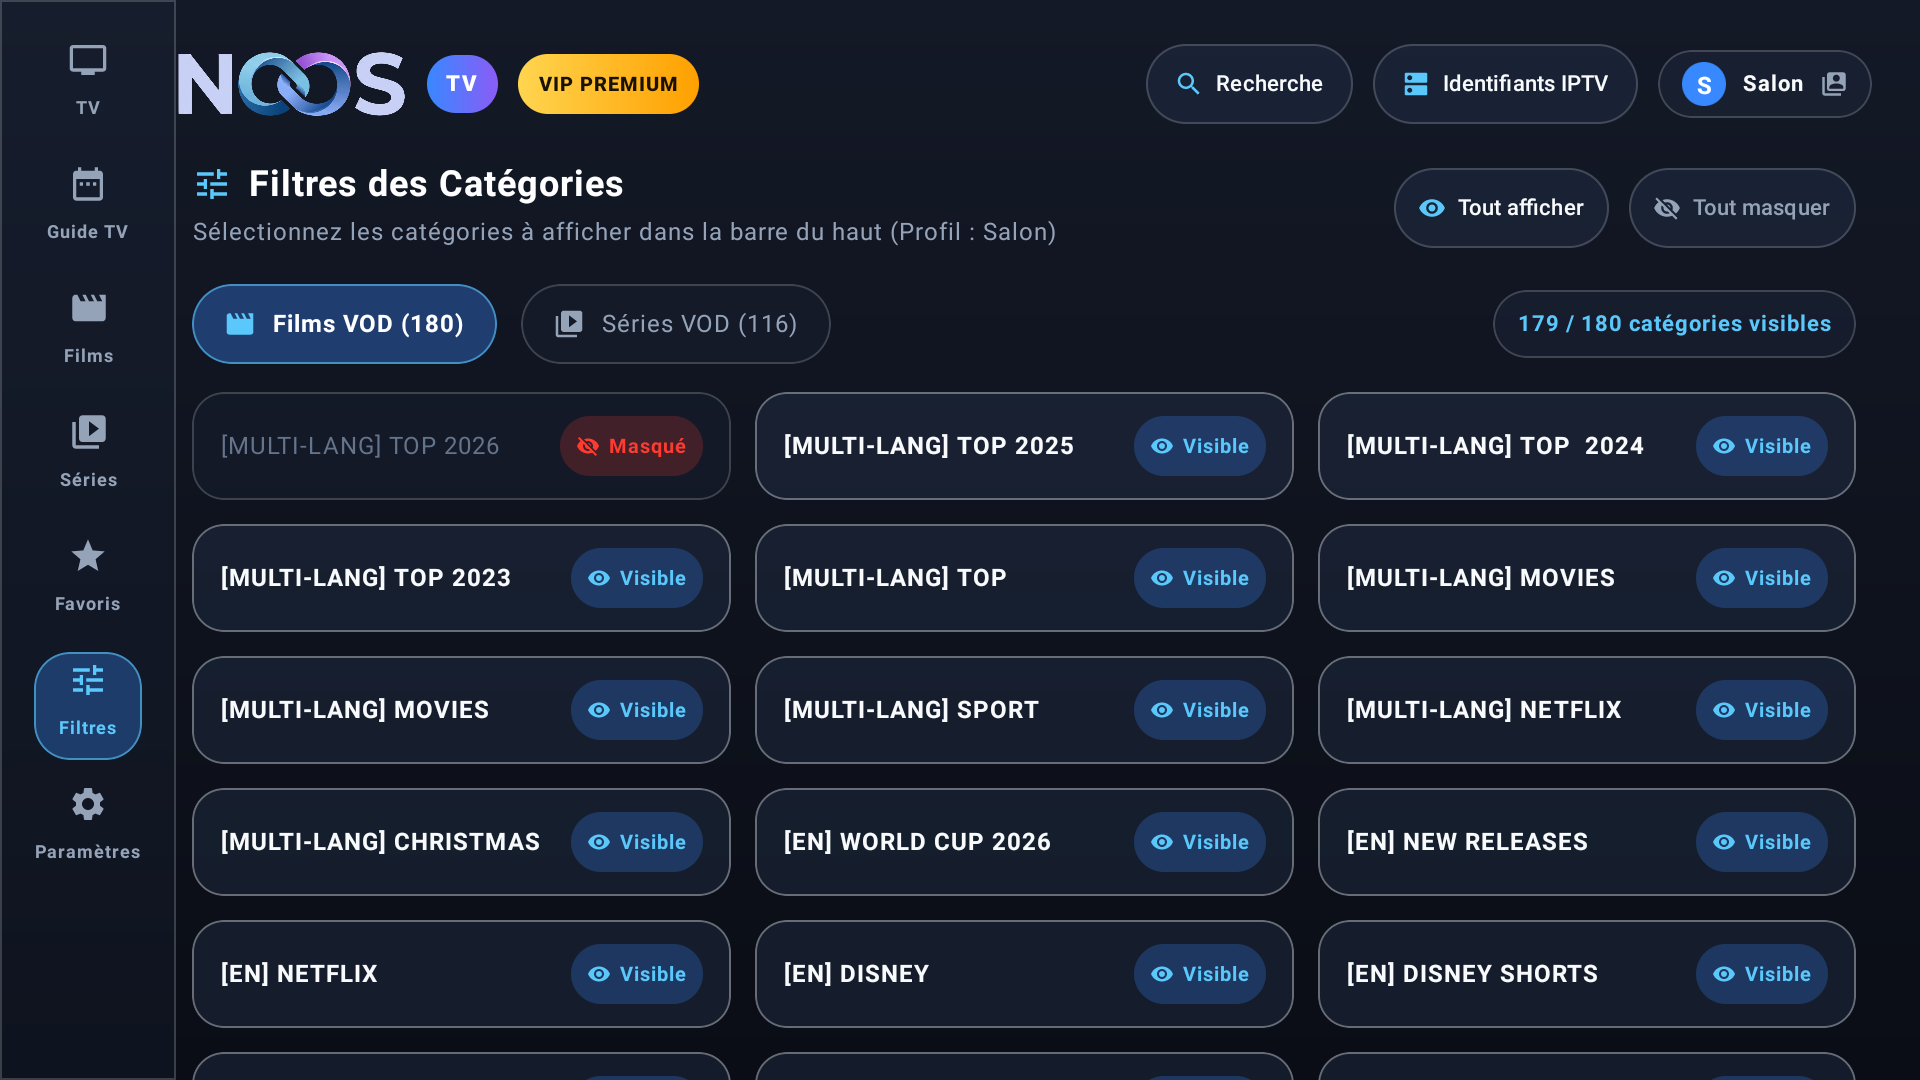
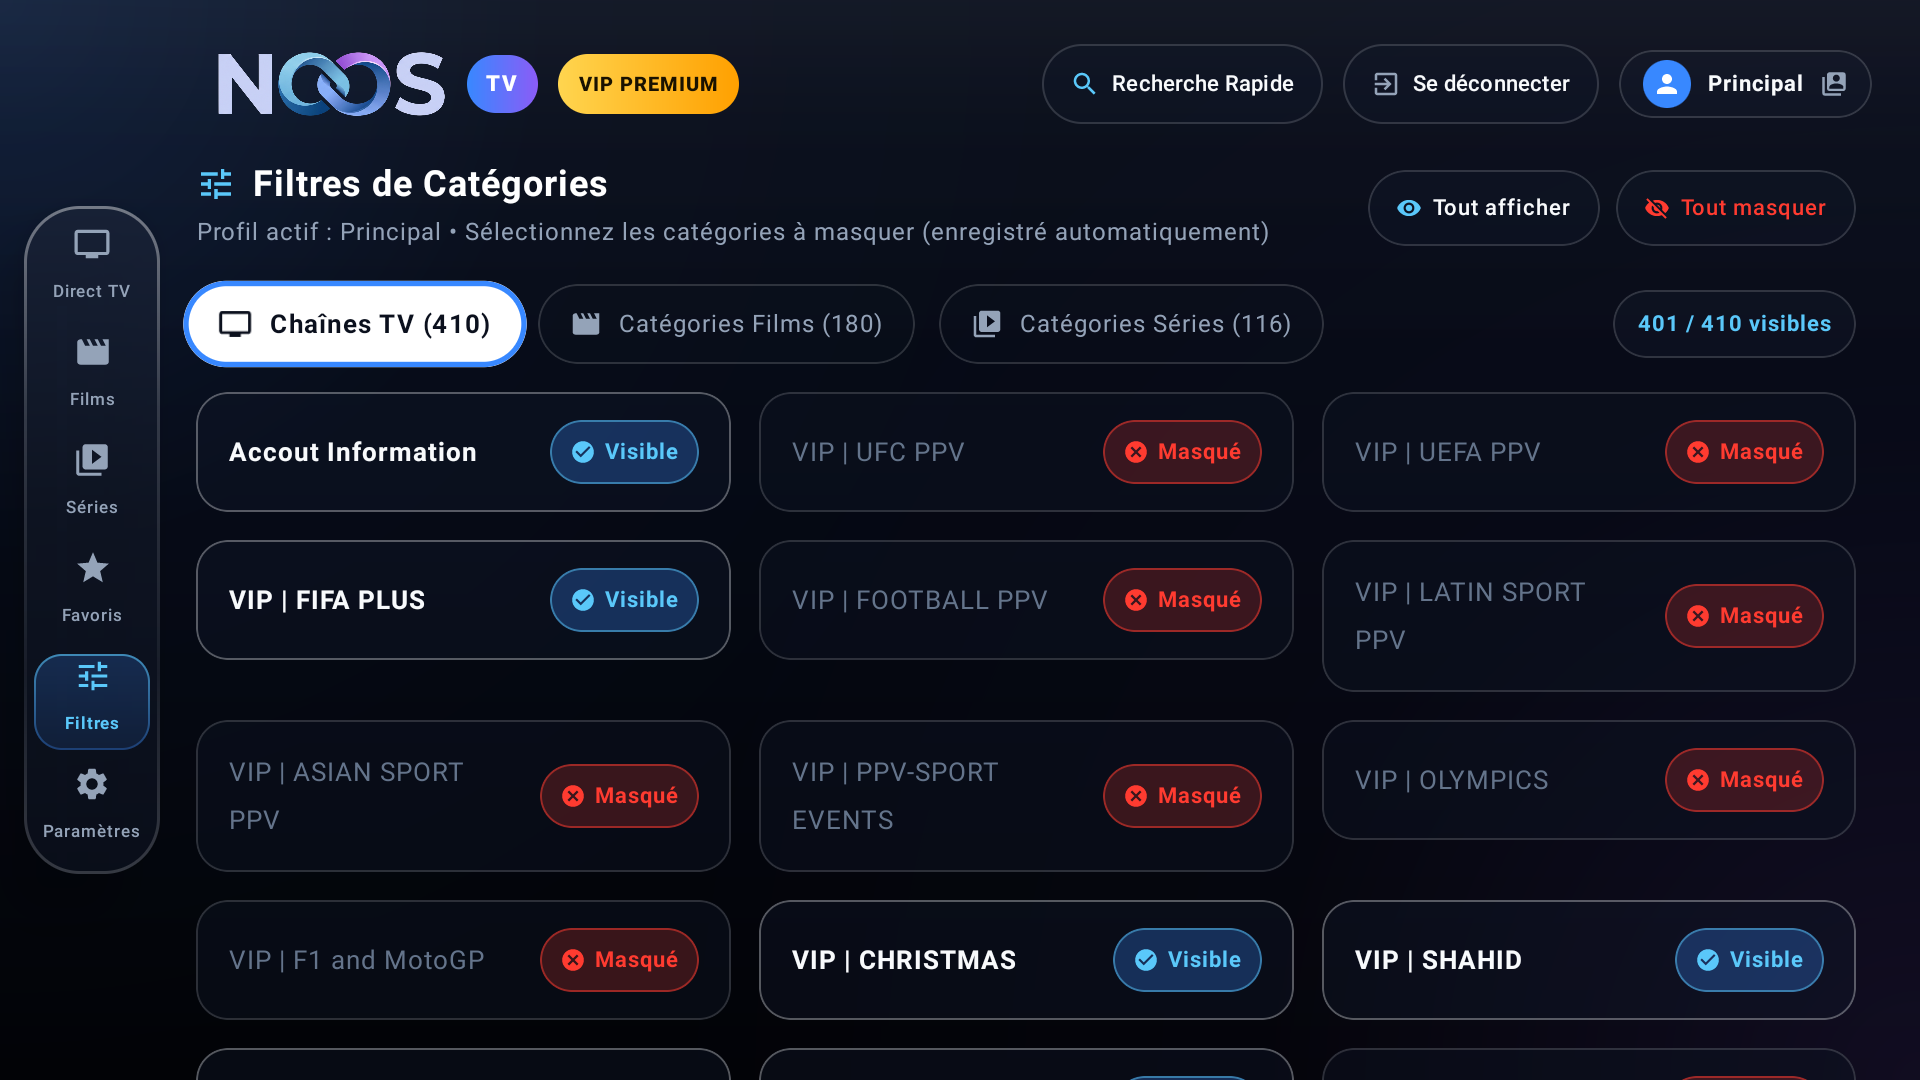
docs: update README with macOS glass design, loading screen, category filters, and new screenshots

diff --git a/README.md b/README.md
@@ -10,7 +10,7 @@
 [![Android](https://img.shields.io/badge/Android-8.0%2B%20(API%2026%2B)-3DDC84?logo=android&logoColor=white)](https://developer.android.com/)
 [![Compose TV](https://img.shields.io/badge/Jetpack%20Compose-Android%20TV%20%26%20M3-4285F4?logo=jetpackcompose&logoColor=white)](https://developer.android.com/jetpack/compose)
 [![Media3](https://img.shields.io/badge/Media3%20ExoPlayer-1.2.1-FF6F00?logo=youtube&logoColor=white)](https://developer.android.com/media/media3)
-[![GitHub Releases](https://img.shields.io/badge/Release-v1.2.3%20[Stable]-00E5FF)](https://github.com/Chomiam/noostv/releases)
+[![GitHub Releases](https://img.shields.io/badge/Release-v1.2.8%20[Stable]-00E5FF)](https://github.com/Chomiam/noostv/releases)
 
 ---
 
@@ -21,12 +21,15 @@
 **NoosTV** est une application Android moderne et universelle conçue pour offrir une expérience de streaming fluide et immersive sur **téléviseurs connectés, box Android TV (Nvidia Shield, Xiaomi Mi Box, Chromecast avec Google TV)** ainsi que sur **smartphones et tablettes Android (Google Pixel, Samsung Galaxy, etc.)**.
 
 Développée en **Kotlin** avec **Jetpack Compose for TV** et **Material 3**, NoosTV intègre les standards visuels et ergonomiques les plus soignés :
-- **Design Glassy Frosted Blur** inspiré des interfaces Apple TV et Google TV (translucidité moderne, reflets lumineux et contraste dynamique),
+- **Arrière-plan macOS Dark Glassmorphic** : dégradés de couleurs sombres et flou de profondeur (*frost blur*) inspirés de la transparence feutrée des fenêtres Apple sur Mac,
+- **Écran de Chargement Intégral Stylisé** : affichage immersif plein écran avec barre de progression en dégradé cyan/violet et statut d'indexation temps réel,
+- **Dock Latéral Flottant à 6 Onglets Épurés** : navigation TV sans accroc (*Direct TV, Films, Séries, Favoris, Filtres, Paramètres*), avec isolation stricte du focus D-pad sans déplacement intempestif sur la grille,
+- **Filtres de Catégories & Focus Haute Visibilité (Style Apple)** : sélecteur par type (*Chaînes, Films, Séries*), mise en avant éclatante en pilule blanche sous le curseur, et boutons d'action rapide *Tout afficher* / *Tout masquer*,
 - **Sons de Navigation d'Interface (Style Apple TV)** : retours acoustiques feutrés (ticks de navigation, pops de validation, descente au retour) joués à latence zéro avec limitation de cadence (*rate limiting* anti-saturation),
-- **Lecteur Vidéo Optimisé pour Télécommande D-Pad** : options et réglages avancés (Infos, Vitesse, Qualité, Audio/Subs, Format) regroupés dans la barre inférieure pour un accès en un clic depuis Play/Pause,
+- **Split-View Direct TV 1/4 d'Écran avec Guide TV Intégré** : liste des chaînes à gauche avec zapping instantané, prévisualisation vidéo allégée et Guide TV chronologique complet en dessous à droite,
+- **Lecteur Vidéo Ergonomique pour Télécommande D-Pad** : réglages avancés (Infos débit/codec, Vitesse, Qualité, Audio/Subs, Format) regroupés dans la barre inférieure pour un accès en un clic depuis Play/Pause,
 - **Détection Vidéo Intelligente (CinemaScope & Multi-Flux)** : reconnaissance fidèle des flux 1080p et 4K même pour les formats cinéma larges (1920×800) sans fausse classification en 720p,
 - **Écran de Connexion Rapide Multi-Comptes** : vue partagée avec historique des identifiants chiffrés localement via **AES-256-GCM Keystore matériel**,
-- **Split-View Direct TV 1/4 d'Écran** : liste de chaînes à gauche avec zapping instantané, prévisualisation vidéo allégée et guide TV chronologique en dessous à droite,
 - **Gestion Multi-Profils** sur un compte unique (avatars colorés style Netflix/Prime, favoris et filtres isolés par utilisateur),
 - **Support International 7 Langues** : Français, Anglais, Espagnol, Allemand, Italien, Arabe et Portugais,
 - **Système de Mise à Jour OTA Transparent** directement depuis GitHub Releases avec sélecteur de canal Stable et Testing.
@@ -35,10 +38,23 @@ Développée en **Kotlin** avec **Jetpack Compose for TV** et **Material 3**, No
 
 ## ✨ Fonctionnalités Clés
 
-### 📺 1. TV en Direct avec Split-View 1/4 d'Écran & Guide TV Intégré
+### ⚡ 1. Écran de Chargement Intégral & Ambiance macOS Dark Glass
+- **Écran de chargement immersif plein écran** : affiché pendant le démarrage et l'indexation du catalogue IPTV pour une mise en route soignée et élégante.
+- **Barre de progression stylisée** : jauge animée en pilule glossy avec dégradé lumineux (cyan vers violet/magenta), pourcentage temps réel et capsule d'information.
+- **Arrière-plan macOS Dark Glassmorphic** : dégradés sombres nuancés et flou artistique permanent créant une profondeur visuelle haut de gamme adaptée aux téléviseurs OLED et 4K.
+
+<div align="center">
+  <img src="docs/screenshots/tv_loading_screen.png" alt="Écran de Chargement Intégral Apple Glass" width="85%" />
+  <p><em>Écran de chargement plein écran avec jauge stylisée et arrière-plan dégradé sombre façon macOS</em></p>
+</div>
+
+---
+
+### 📺 2. TV en Direct avec Split-View 1/4 d'Écran & Guide TV Intégré
 - **Disposition optimisée TV & Paysage** :
-  - **Colonne gauche** : liste interactive des chaînes avec indicateur du programme en cours et pastilles dynamiques.
+  - **Colonne gauche** : liste interactive des chaînes avec pastilles dynamiques et recherche rapide.
   - **Colonne droite** : lecteur de prévisualisation 1/4 d'écran avec zapping fluide, et **Guide TV chronologique** de la chaîne active juste en dessous.
+- **Guide TV intégré sans dispersion** : le guide des programmes est désormais directement intégré dans l'onglet Direct TV, supprimant tout onglet ou écran séparé superflu.
 - **Décodage allégé en prévisualisation** : limitation automatique à 720p/2.5 Mbps pendant la navigation dans la liste pour supprimer toute saccade, puis déverrouillage intégral lors du passage en plein écran.
 - **Accès plein écran instantané** : validation sur le lecteur ou sur le bouton interactif `[Plein écran (OK)]`.
 
@@ -49,7 +65,7 @@ Développée en **Kotlin** avec **Jetpack Compose for TV** et **Material 3**, No
 
 ---
 
-### 🔑 2. Connexion Rapide Multi-Comptes & Chiffrement Matériel AES-256
+### 🔑 3. Connexion Rapide Multi-Comptes & Chiffrement Matériel AES-256
 - **Écran de connexion divisé (Split-Screen)** : formulaire d'authentification standard à gauche et liste des identifiants enregistrés à droite pour une reconnexion immédiate en un clic.
 - **Sécurité et confidentialité absolues** :
   - Stockage exclusivement local, aucun serveur tiers.
@@ -63,7 +79,42 @@ Développée en **Kotlin** avec **Jetpack Compose for TV** et **Material 3**, No
 
 ---
 
-### ⚡ 3. Lecteur Vidéo Ergonomique & Contrôles Inférieurs
+### 🎛 4. Filtres de Catégories & Focus D-Pad Haute Visibilité
+- **Personnalisation fine du catalogue** : masquez ou affichez instantanément les catégories de votre fournisseur IPTV, avec persistance automatique par profil utilisateur.
+- **Sélecteur de type en pilules modernes** : basculez aisément entre *Chaînes TV*, *Catégories Films* et *Catégories Séries*.
+- **Curseur Haute Visibilité (Style Apple)** : l'onglet sélectionné sous le curseur s'illumine en **pilule blanche brillante éclatante** avec texte et icône noir profond, halo cyan et animation d'échelle (`scale 1.08x`), éliminant toute ambiguïté sur grand écran.
+- **Navigation 2D bidirectionnelle fluide** :
+  - **Droite** : passage immédiat depuis le dock latéral vers l'onglet actif.
+  - **Bas** : saut direct vers la grille de catégories à 3 colonnes.
+  - **Haut** : retour instantané vers les onglets de filtrage.
+  - **Gauche / Retour** : retour immédiat vers le dock latéral sans blocage.
+- **Actions globales en 1 clic** : boutons interactifs *Tout afficher* et *Tout masquer* avec retour visuel immédiat.
+
+<div align="center">
+  <img src="docs/screenshots/tv_category_filters.png" alt="Filtres de Catégories Chaînes TV" width="48%" />
+  &nbsp;
+  <img src="docs/screenshots/tv_category_filters_movies.png" alt="Filtres de Catégories Films VOD" width="48%" />
+  <p><em>Gestion des filtres de catégories avec focus haute visibilité style Apple et navigation D-pad fluide</em></p>
+</div>
+
+---
+
+### 📚 5. Catalogues VOD Films & Séries avec Pagination Intégrale
+- **Navigation sans limite** : gestion paginée performante permettant de parcourir l'intégralité du catalogue VOD (plus de 39 000 films et 6 000 séries) avec une empreinte mémoire minimale et zéro latence.
+- **Dock latéral fixe sans saut de curseur** : le curseur ne bascule plus accidentellement vers la grille de films lors du défilement vertical dans la barre latérale.
+- **Barre de pagination interactive** : boutons Précédent / Suivant et indicateur de position (`Page 1 / 18 (642 films)`) optimisés pour la télécommande D-Pad sur TV et pour le tactile sur mobile.
+- **Filtres par genres** : chips horizontaux défilants pour naviguer instantanément entre les bouquets et catégories.
+
+<div align="center">
+  <img src="docs/screenshots/tv_films_pagination.png" alt="Catalogue Films TV avec Pagination" width="48%" />
+  &nbsp;
+  <img src="docs/screenshots/tv_series_pagination.png" alt="Catalogue Séries TV avec Pagination" width="48%" />
+  <p><em>Catalogues VOD Films et Séries sur Android TV avec affiches 2:3, dock latéral épuré et barre de pagination</em></p>
+</div>
+
+---
+
+### ⚡ 6. Lecteur Vidéo Ergonomique & Contrôles Inférieurs
 - **Accès D-Pad simplifié** : tous les boutons d'options sont disposés dans la barre inférieure, directement sous les boutons de lecture (Play/Pause, Précédent, Suivant). Une seule pression vers le Bas sur la télécommande sélectionne la rangée de réglages.
 - **Options disponibles en un clic** :
   - **Infos** : débit en direct, codec vidéo et audio, nombre de canaux, framerate et santé du tampon de lecture (*buffer health*).
@@ -71,7 +122,7 @@ Développée en **Kotlin** avec **Jetpack Compose for TV** et **Material 3**, No
   - **Qualité vidéo** : sélection manuelle du flux (4K, 1080p, 720p, SD) ou bascule en Automatique adaptatif.
   - **Audio & Sous-titres** : sélecteur de pistes multilingues et sous-titres avec détection des formats (AC3, AAC, EAC3, DTS).
   - **Format d'image** : bascule à la volée entre *Format Ajusté*, *Format 16:9 (Zoom)* et *Format Étiré*.
-- **Détection de résolution précise** : algorithme multi-critères prenant en compte la largeur, la hauteur et les métadonnées (compatibilité parfaite avec les films 1080p CinemaScope 1920×800).
+- **Détection de résolution précise** : compatibilité parfaite avec les films 1080p CinemaScope (1920×800) sans fausse classification.
 
 <div align="center">
   <img src="docs/screenshots/tv_osd_movie.png" alt="Contrôles OSD Inférieurs du Lecteur" width="48%" />
@@ -82,33 +133,7 @@ Développée en **Kotlin** avec **Jetpack Compose for TV** et **Material 3**, No
 
 ---
 
-### 🔊 4. Sons de Navigation d'Interface (Style Apple TV)
-- **Expérience sonore raffinée** : retours acoustiques subtils et discrets reproduisant fidèlement l'élégance de tvOS :
-  - **Déplacement de curseur (D-Pad)** : *tick* organique court (~24 ms) feutré façon marimba.
-  - **Validation (Bouton OK)** : *pop / tap* chaleureux (~42 ms) lors d'une sélection.
-  - **Retour (Bouton Back)** : descente douce et discrète (~55 ms).
-  - **Bordure de liste** : butée feutrée (*thud*).
-- **Zéro latence** : flux audio PCM 44.1 kHz 16-bit synthétisés et préchargés via `SoundPool`.
-- **Limiteur de cadence (*Rate Limiting*)** à 45 ms évitant toute saturation lors du défilement continu.
-- **Interrupteur dédié** dans les Paramètres sous la section **Expérience & Audio** pour activer ou désactiver les sons.
-
----
-
-### 📚 5. Catalogues VOD Films & Séries avec Pagination Intégrale
-- **Navigation sans limite** : gestion paginée performante permettant de parcourir l'intégralité du catalogue VOD (plus de 39 000 films et 6 000 séries) avec une empreinte mémoire minimale et zéro latence.
-- **Barre de pagination interactive** : boutons Précédent / Suivant et indicateur de position (`Page 1 / 5 (98 films)`) optimisés à la fois pour la télécommande D-Pad sur TV et pour le tactile sur mobile.
-- **Filtres par catégories** : chips horizontaux défilants pour naviguer instantanément entre les genres et bouquets.
-
-<div align="center">
-  <img src="docs/screenshots/tv_films_pagination.png" alt="Catalogue Films TV avec Pagination" width="48%" />
-  &nbsp;
-  <img src="docs/screenshots/tv_series_pagination.png" alt="Catalogue Séries TV avec Pagination" width="48%" />
-  <p><em>Catalogues VOD Films et Séries sur Android TV avec affiches 2:3 et barre de pagination</em></p>
-</div>
-
----
-
-### 🎬 6. Fiches de Métadonnées Cinématographiques Riches
+### 🎬 7. Fiches de Métadonnées Cinématographiques Riches
 - **Modale de Détails Films** : affiche haute résolution, backdrop cinéma, badges techniques (Définition, Codec vidéo/audio, HDR), durée, note IMDb, synopsis et bouton `[▶ Lancer le film]`.
 - **Modale de Détails Séries** : sélecteur horizontal de saisons, liste des épisodes avec titres, résumés et bouton d'accès direct `[▶ Regarder S1:E1]`.
 - **Navigation D-Pad fluide** : la croix de fermeture est directement accessible via la touche Haut de la télécommande depuis les épisodes ou les boutons d'action.
@@ -122,7 +147,7 @@ Développée en **Kotlin** avec **Jetpack Compose for TV** et **Material 3**, No
 
 ---
 
-### 👤 7. Multi-Profils Utilisateur & Avatars Style Netflix / Prime
+### 👤 8. Multi-Profils Utilisateur & Avatars Style Netflix / Prime
 - **Bouton profil interactif dans l'en-tête** : pastille vitrée affichant l'avatar thématique et le nom du profil actif.
 - **Gestion et personnalisation complète des profils** :
   - Renommage et édition en un clic avec suggestions rapides (*Salon, Famille, Enfants, Chambre, Invité, Cinéma*).
@@ -130,7 +155,7 @@ Développée en **Kotlin** avec **Jetpack Compose for TV** et **Material 3**, No
   - Palette de couleurs vives (Bleu, Cyan, Violet, Émeraude, Ambre, Rose, Corail).
   - Bascule instantanée entre profils sans rechargement de compte ni déconnexion.
   - Suppression sécurisée des profils secondaires.
-- **Isolation stricte des données** : chaque membre du foyer dispose de sa propre liste de favoris et de sa propre sélection de catégories VOD visibles.
+- **Isolation stricte des données** : chaque membre du foyer dispose de sa propre liste de favoris et de ses propres catégories masquées.
 
 <div align="center">
   <img src="docs/screenshots/tv_glassy_profiles.png" alt="Gestion Multi-Profils Android TV" width="48%" />
@@ -141,7 +166,19 @@ Développée en **Kotlin** avec **Jetpack Compose for TV** et **Material 3**, No
 
 ---
 
-### 🌍 8. Support International 7 Langues & Paramètres Complets
+### 🔊 9. Sons de Navigation d'Interface (Style Apple TV)
+- **Expérience sonore raffinée** : retours acoustiques subtils et discrets reproduisant fidèlement l'élégance de tvOS :
+  - **Déplacement de curseur (D-Pad)** : *tick* organique court (~24 ms) feutré façon marimba.
+  - **Validation (Bouton OK)** : *pop / tap* chaleureux (~42 ms) lors d'une sélection.
+  - **Retour (Bouton Back)** : descente douce et discrète (~55 ms).
+  - **Bordure de liste** : butée feutrée (*thud*).
+- **Zéro latence** : flux audio PCM 44.1 kHz 16-bit synthétisés et préchargés via `SoundPool`.
+- **Limiteur de cadence (*Rate Limiting*)** à 45 ms évitant toute saturation lors du défilement continu.
+- **Interrupteur dédié** dans les Paramètres sous la section **Expérience & Audio** pour activer ou désactiver les sons.
+
+---
+
+### 🌍 10. Support International 7 Langues & Paramètres Complets
 - **Sélecteur de langue d'interface avec drapeaux** : Français 🇫🇷, English 🇬🇧, Español 🇪🇸, Deutsch 🇩🇪, Italiano 🇮🇹, العربية 🇸🇦, Português 🇵🇹.
 - **Mises à jour transparentes OTA** : vérification et téléchargement direct des nouvelles versions depuis GitHub Releases (canaux Stable et Testing).
 - **Diagnostics système en direct** : informations détaillées sur l'appareil, mémoire cache Coil et statut de connexion.
@@ -153,9 +190,9 @@ Développée en **Kotlin** avec **Jetpack Compose for TV** et **Material 3**, No
 
 ---
 
-### 📱 9. Expérience Dédiée Android Mobile
+### 📱 11. Expérience Dédiée Android Mobile
 Une interface pensée pour les écrans tactiles verticaux et validée sur **Google Pixel 10 Pro** :
-- **Barre de navigation inférieure à 5 onglets** : Direct, Films, Séries, Guide TV, Paramètres.
+- **Barre de navigation inférieure à 5 onglets** : Direct, Films, Séries, Favoris, Paramètres.
 - **Fiches de détails VOD en bottom sheet tactile** avec backdrops dynamiques, badges techniques et lecture en 1 geste.
 - **Lecteur vidéo mobile plein écran** avec commandes tactiles transparentes et bascule portrait/paysage.
 
@@ -181,7 +218,7 @@ Une interface pensée pour les écrans tactiles verticaux et validée sur **Goog
 | **Langage** | [Kotlin 1.9.22](https://kotlinlang.org/) | Coroutines, StateFlow, code unifié TV / Mobile |
 | **Interface TV** | [Compose for TV 1.0](https://developer.android.com/jetpack/compose) | Composables TV optimisés pour la télécommande D-Pad |
 | **Interface Mobile** | [Jetpack Compose Material 3](https://m3.material.io/) | Composables tactiles pour smartphones et tablettes |
-| **Design System** | Midnight Dark OLED | Palette sombre, accents cyan `#00E5FF` et ambre `#FFB300` |
+| **Design System** | Apple Frosted Glass & Dark OLED | Palette sombre dégradée macOS, accents cyan `#00E5FF` et or `#FFB300` |
 | **Moteur Audio UI** | [Android SoundPool](https://developer.android.com/reference/android/media/SoundPool) | Effets sonores de navigation style Apple TV à latence zéro |
 | **Lecteur Vidéo** | [AndroidX Media3 ExoPlayer 1.2.1](https://developer.android.com/media/media3) | Décodage matériel HEVC / H.264 / AV1, HLS, DASH, TS, MP4, MKV |
 | **Réseau & API** | [OkHttp 4.12](https://square.github.io/okhttp/) & [Gson](https://github.com/google/gson) | Client Xtream Codes résilient avec timeouts optimisés et extraction zéro-latence |
@@ -194,8 +231,8 @@ Une interface pensée pour les écrans tactiles verticaux et validée sur **Goog
 
 ### Option 1 — Téléchargement des APKs
 Rendez-vous sur la page des [Releases GitHub](https://github.com/Chomiam/noostv/releases) pour télécharger l'APK correspondant à votre usage :
-- **Canal Stable** : `noostv-v1.2.3.apk` (Recommandé pour un usage quotidien)
-- **Canal Testing** : `noostv-v1.2.3-beta.1.apk` (Dernières nouveautés)
+- **Canal Stable** : `app-release.apk` (Version Finale v1.2.8 recommandée pour un usage quotidien)
+- **Canal Testing** : Versions beta / pré-releases pour tester les dernières nouveautés
 
 ### Option 2 — Déploiement via ADB
 ```bash
@@ -203,7 +240,7 @@ Rendez-vous sur la page des [Releases GitHub](https://github.com/Chomiam/noostv/
 adb connect <ADRESSE_IP>:5555
 
 # 2. Installation de l'APK
-adb install -r noostv-v1.2.3.apk
+adb install -r app-release.apk
 
 # 3. Lancement de l'application
 adb shell am start -n io.noostv/.MainActivity
@@ -214,7 +251,7 @@ adb shell am start -n io.noostv/.MainActivity
 ## 🔨 Compilation depuis les Sources
 
 ### Prérequis
-- **JDK 21** configuré (`JAVA_HOME`)
+- **JDK 21 LTS** configuré (`JAVA_HOME`)
 - **Android SDK** avec Build-Tools `34.0.0` et Platform `android-34`
 - **Gradle 8.2+** (géré via `./gradlew`)
 
